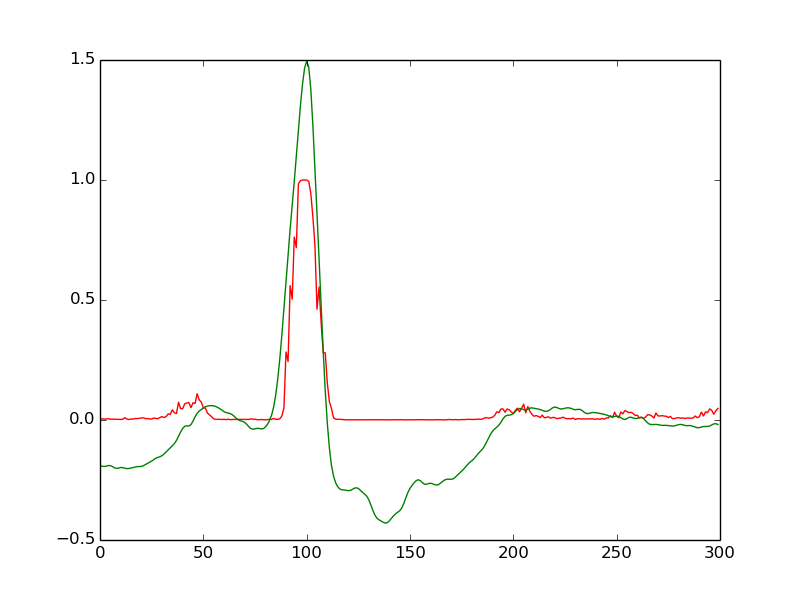
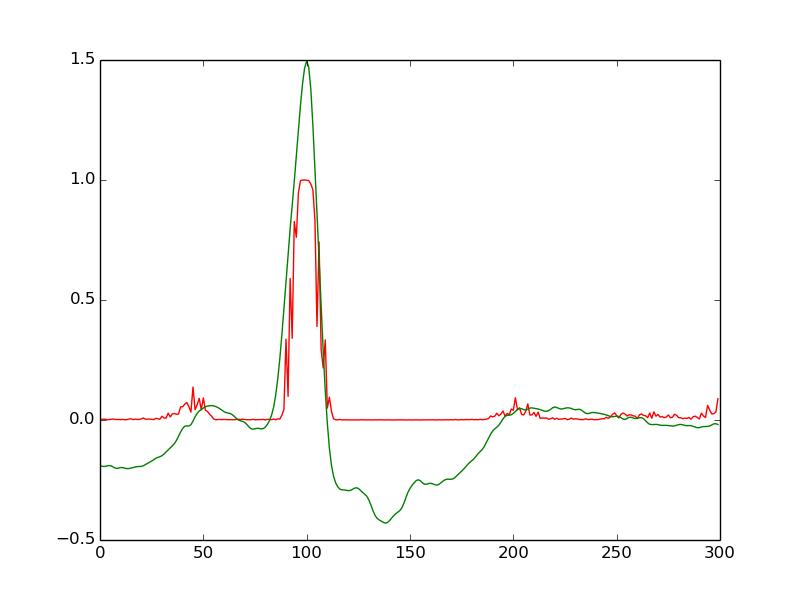
200 hidden 100 epochs

diff --git a/dA.py b/dA.py
@@ -327,7 +327,7 @@ def test_dA(learning_rate=0.001, training_epochs=100,
         theano_rng=theano_rng,
         input=x,
         n_visible=300,
-        n_hidden=100
+        n_hidden=200
     ) 
 
     cost, updates = da.get_cost_updates(
